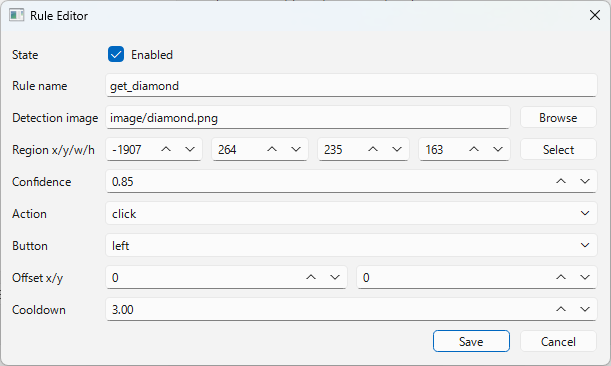
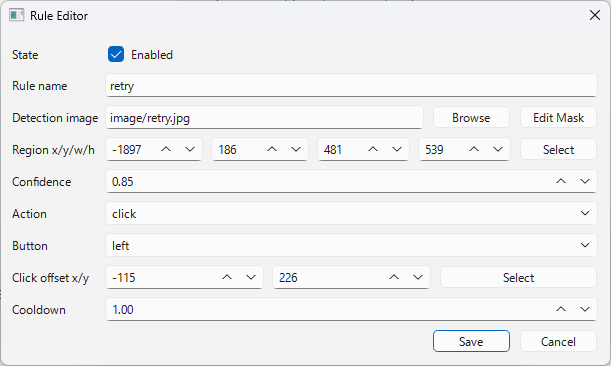
docs: マスクとクリック位置の説明追記

diff --git a/README.md b/README.md
@@ -50,6 +50,18 @@ Rule editor:
 
 ![Rule editor](docs/assets/rule.png)
 
+Click position selector:
+
+![Click position selector](docs/assets/select_clicked_position.png)
+
+Mask editor:
+
+![Mask editor](docs/assets/editmask.png)
+
+Masked template image:
+
+![Masked template image](docs/assets/editmask_after.png)
+
 Runtime log:
 
 ![Runtime log](docs/assets/execution.png)
